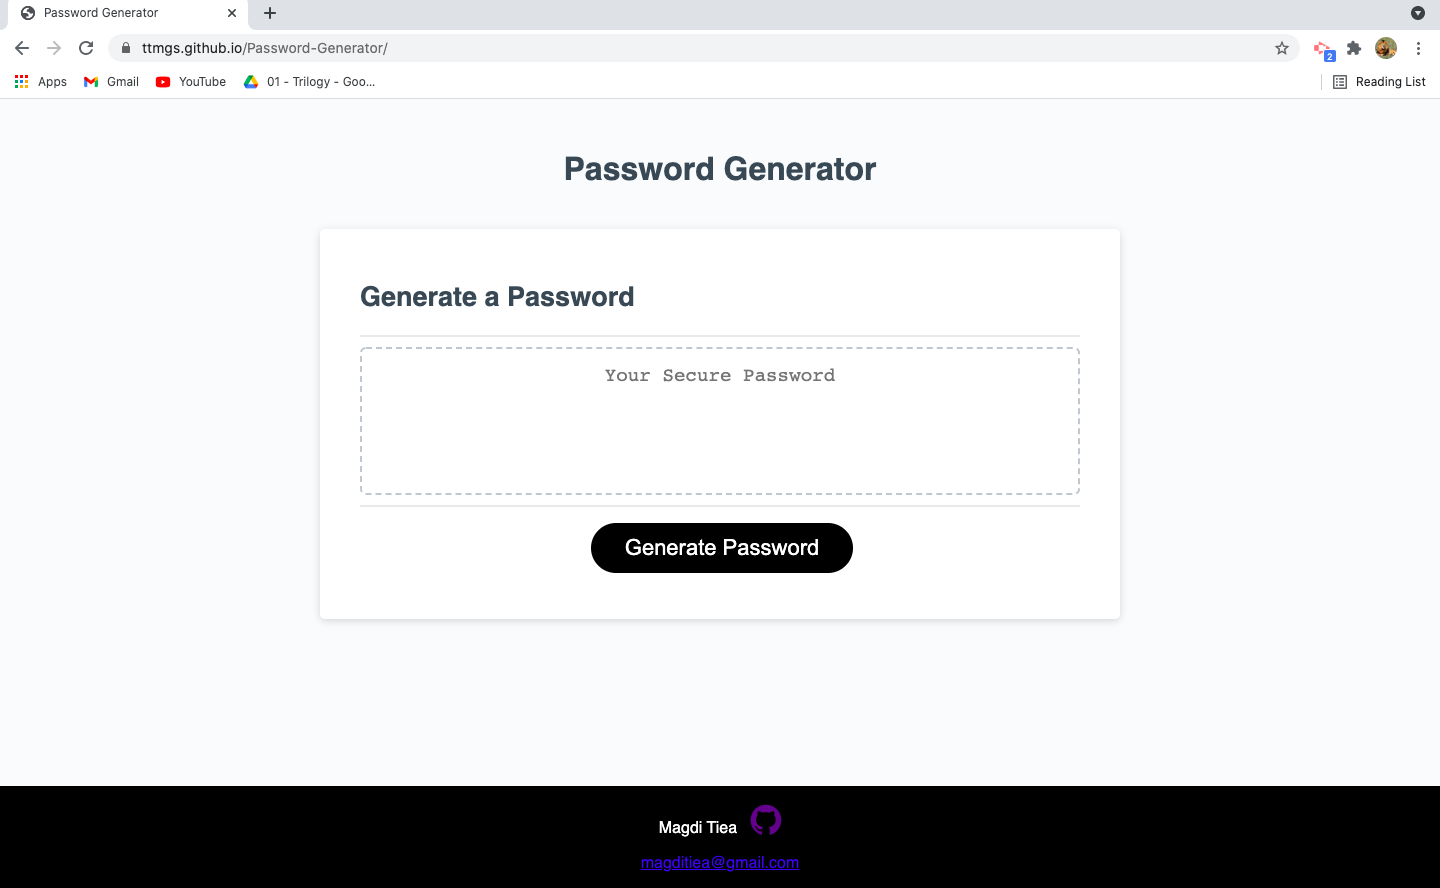
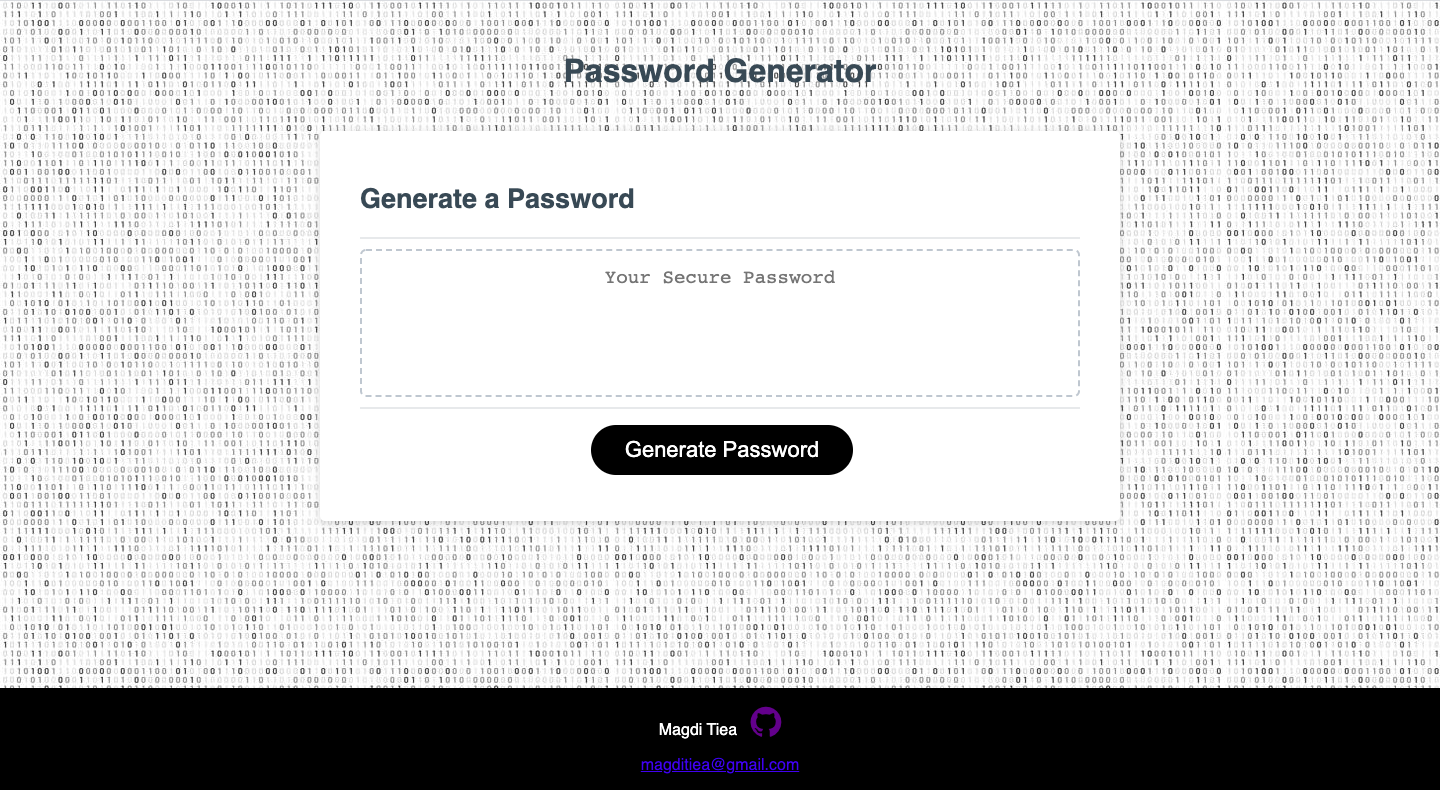
photo added

diff --git a/style.css b/style.css
@@ -150,3 +150,6 @@ button[disabled] {
 }
 
 
+body{
+  background-image: url('./password.jpg');
+}
